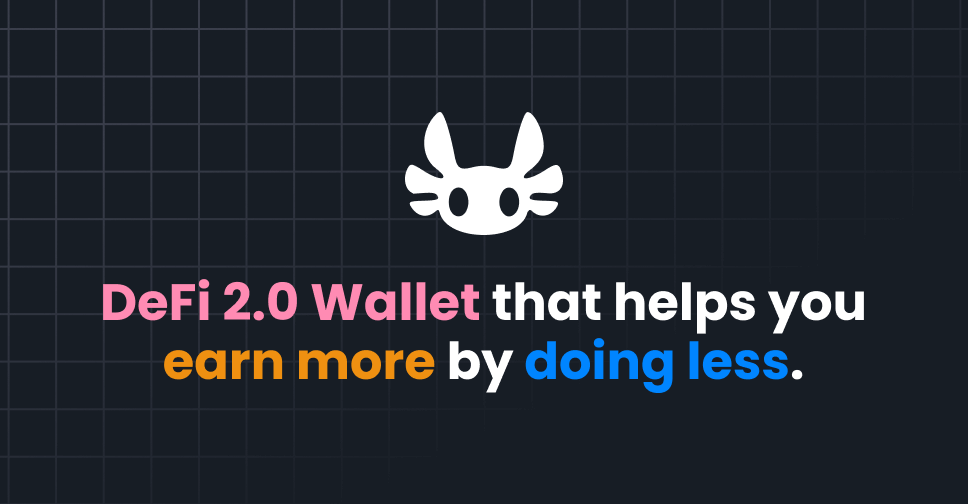
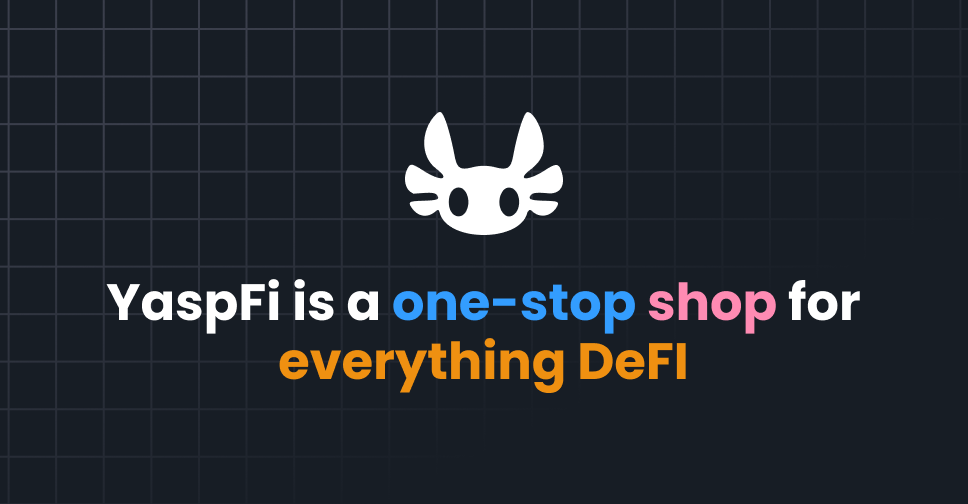
chore: update meta on landing as well

Changed region(s): [[0.093, 0.5357, 0.8988, 0.8036]]

diff --git a/lib/constants.ts b/lib/constants.ts
@@ -31,8 +31,7 @@ export const WEB_APP_URL = `${BASE_APP_URL}/investments`;
 
 export const TITLE =
   'YaspFi';
-export const DESCRIPTION =
-  'Meet YaspFi: the non-custodial wallet for DeFi. Store, earn yield, & exchange on multiple networks without losing access. Get analytics & risk assessment scores to make data-driven choices. Our goal is to make decentralized finance more user-friendly, transparent, & accessible';
+export const DESCRIPTION = `YaspFi is a one-stop shop for everything DeFi`;
 
 export const colors = {
   primaryDarkBlue: `#171D25`,
